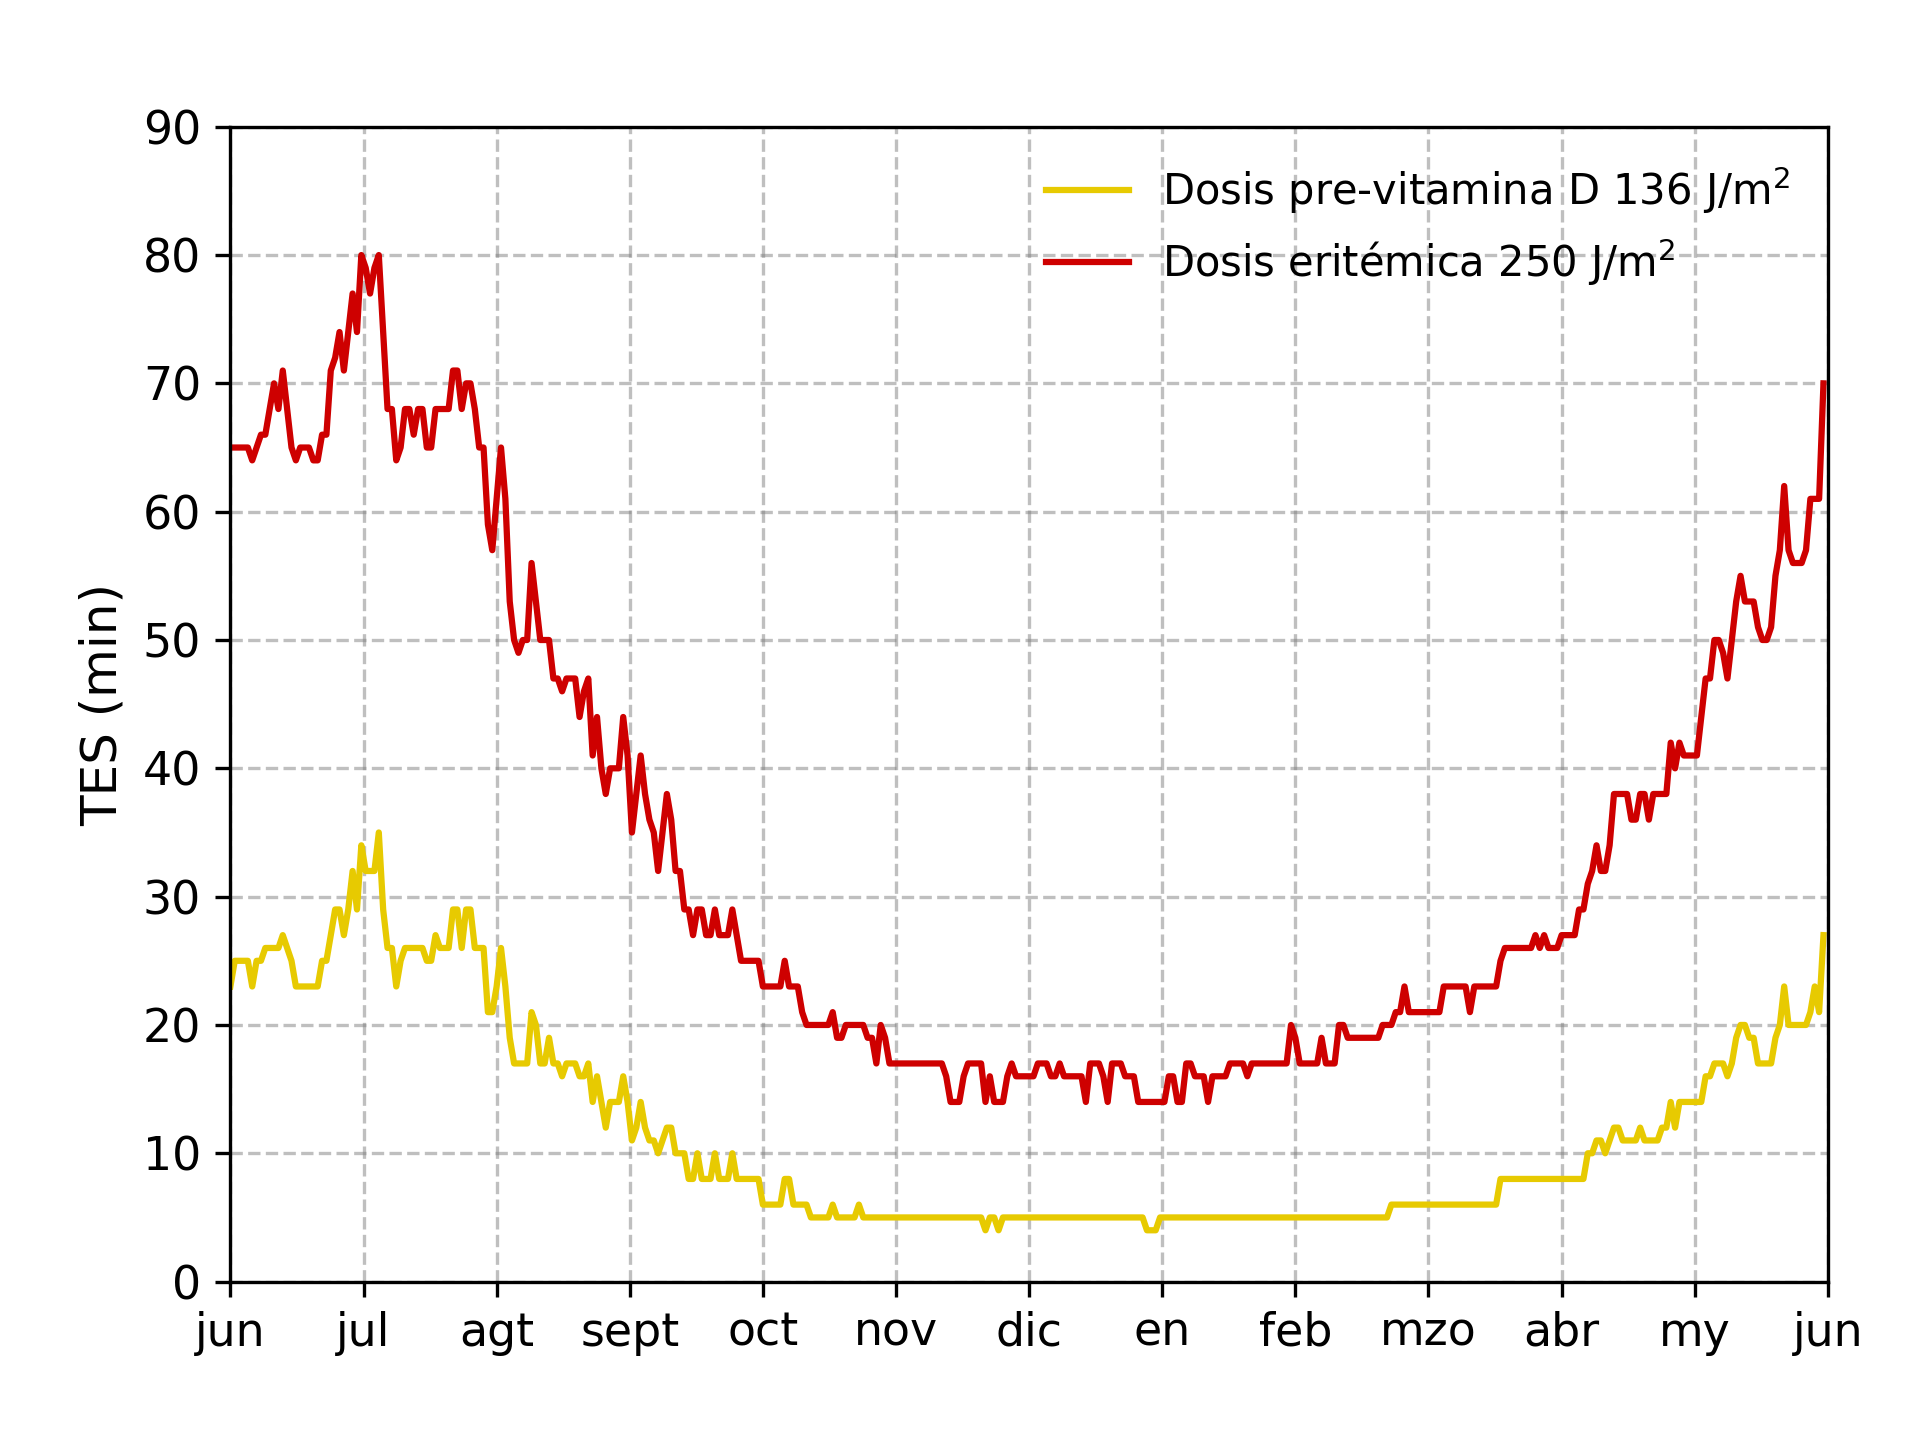
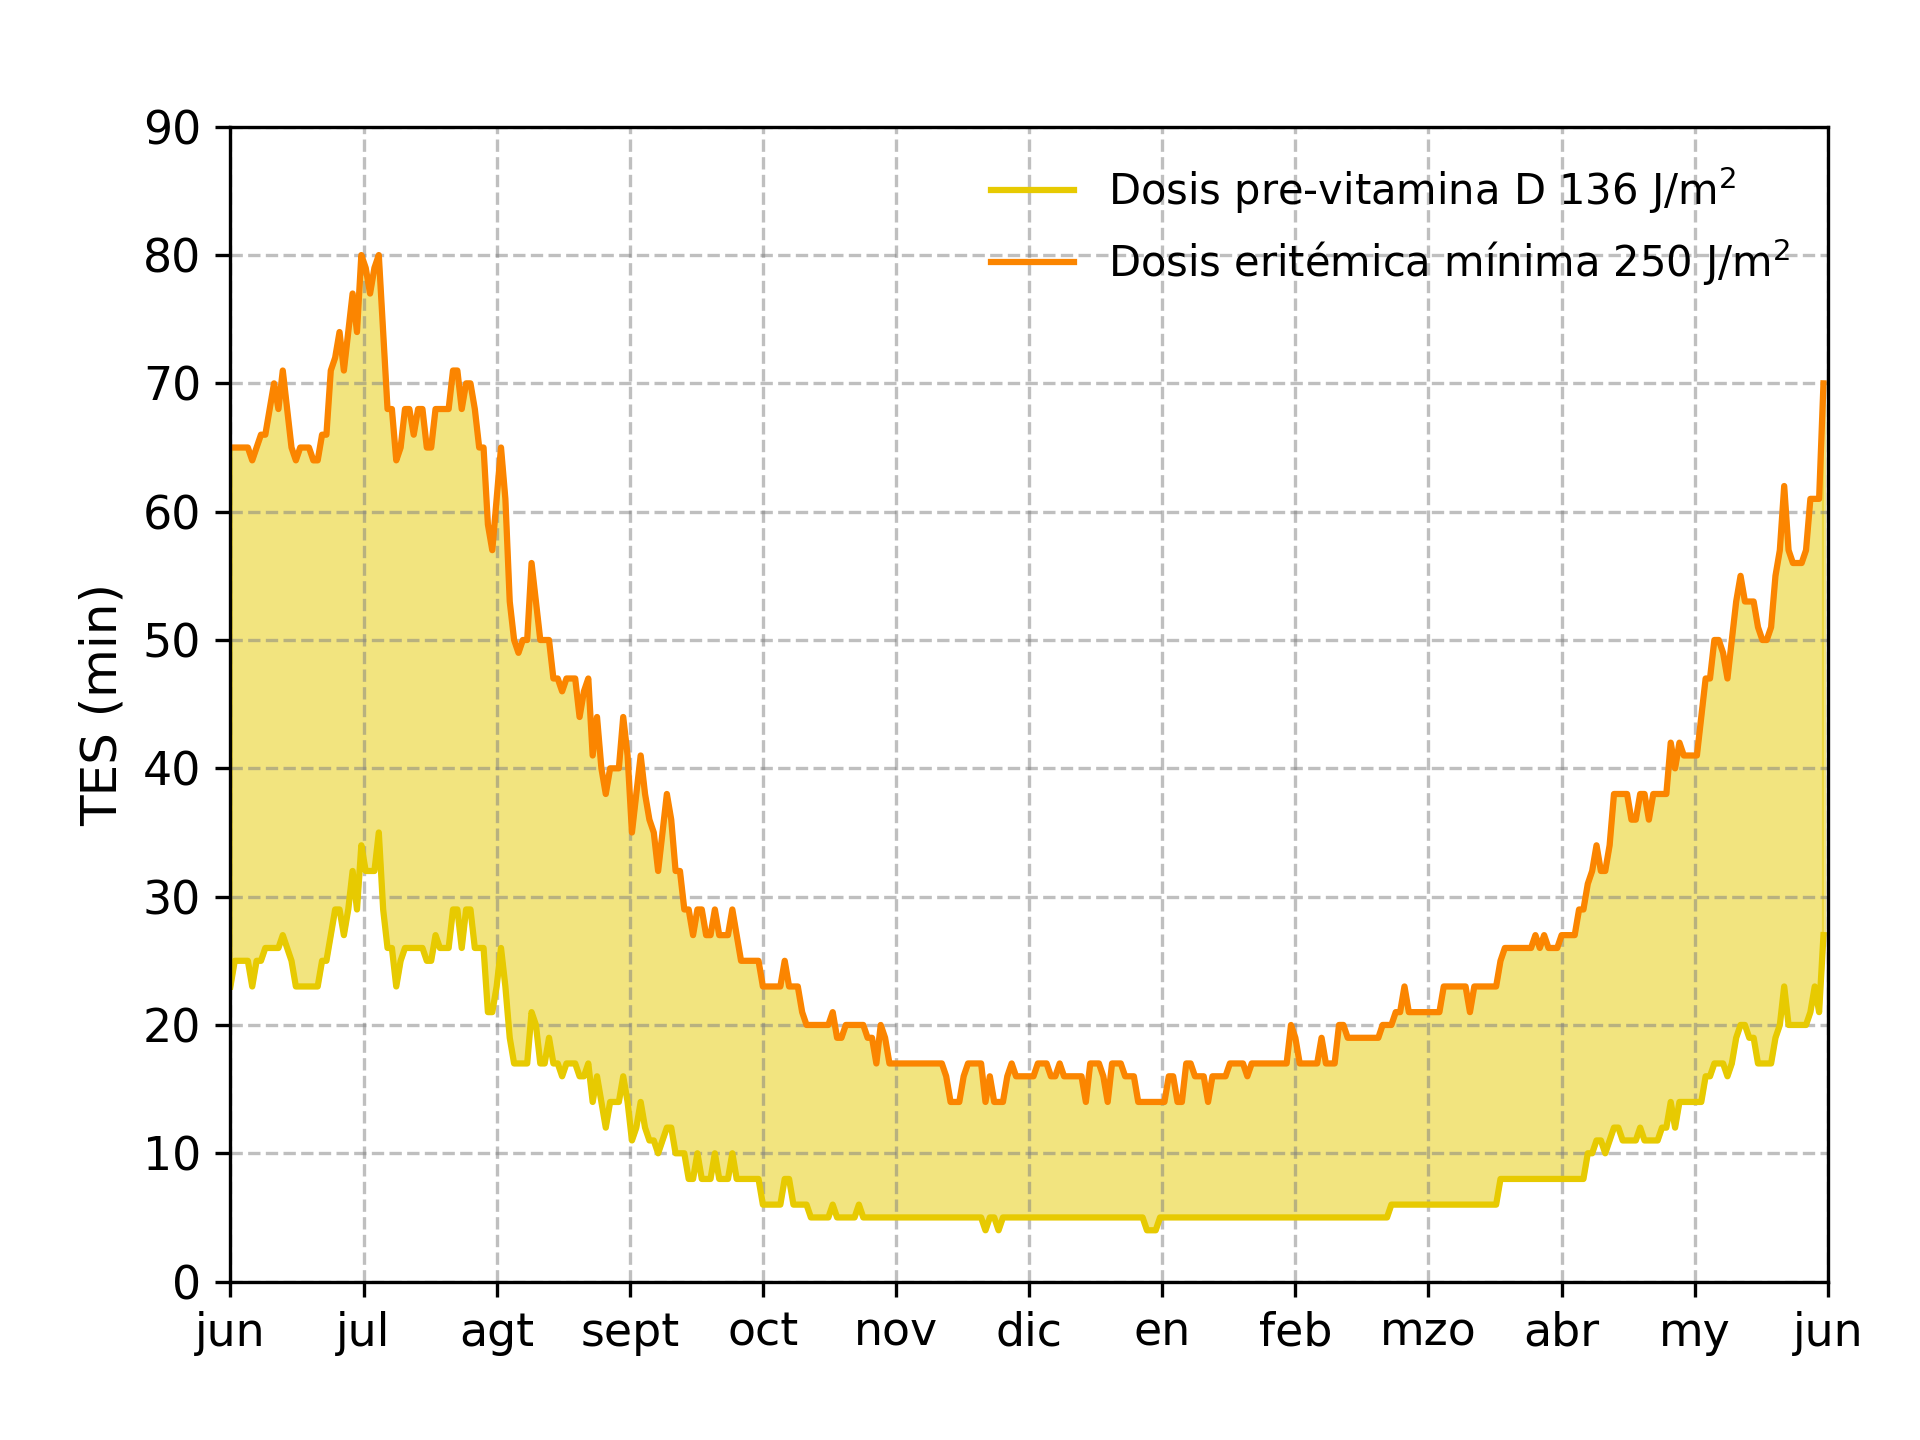
[CHANGE] Pre vitamin graphics

Changed region(s): [[0.0938, 0.1562, 0.9688, 0.8438], [0.5312, 0.125, 0.9375, 0.2188]]

diff --git a/Scripts/pre_vitamin_d_graphics.py b/Scripts/pre_vitamin_d_graphics.py
@@ -1,5 +1,7 @@
 import matplotlib.pyplot as plt
 import numpy as np
+import datetime
+meses=["jun","jul","agt","sept","oct","nov","dic","en","feb","mzo","abr","my","jun"]
 dir_vitamin_d="../Data/Rosario_period/"
 dir_graphics="../Graphics/"
 day_i=datetime.date(2019,6,1)
@@ -7,12 +9,18 @@ day_f=datetime.date(2020,5,31)
 n_days=(day_f-day_i).days+1
 date=np.loadtxt(dir_vitamin_d+"sza_vitamin_max.csv",delimiter=",",skiprows=1,usecols=0,dtype=str)
 data_vitamin=np.loadtxt(dir_vitamin_d+"sza_vitamin_max.csv",delimiter=",",skiprows=1,usecols=2)
-x=np.arange(0,n_days,25);x=np.append(x,n_days)
-plt.scatter(np.arange(n_days),data_vitamin,color="#6a040f")
+data_CIE,data_Herman=np.loadtxt(dir_vitamin_d+"CIE_Herman_data.csv",delimiter=",",skiprows=1,unpack=True)
+x=np.arange(n_days)
+plt.scatter(x,data_vitamin,c="#f72585",label="Modelo TUV",marker=".")
+plt.scatter(x,data_Herman,c="#3a0ca3",label="Herman, 2010",marker=".")
+plt.scatter(x[data_CIE!=0],data_CIE[data_CIE!=0],c="#4cc9f0",label="CIE-2014",marker=".")
+plt.ylabel("Pre-vitamina D (W/m$^2$)",fontsize=12)
 plt.xlim(0,n_days)
 plt.ylim(0,1)
-plt.xticks(x,date[x-1],rotation=60)
-plt.yticks(np.arange(0,1+0.1,0.1))
+plt.xticks(np.linspace(0,n_days,13),meses,fontsize=12)
+plt.yticks(np.arange(0,1+0.1,0.1),fontsize=12)
 plt.grid(ls="--",color="grey",alpha=0.3)
-plt.subplots_adjust(left=0.114,bottom=0.171,right=0.945,top=0.94)
+plt.legend(frameon=False,ncol=3,markerscale=2)
+plt.subplots_adjust(left=0.117,bottom=0.138,right=0.93,top=0.957)
 plt.savefig(dir_graphics+"Previtamin_D.png",dpi=300)
+plt.show()

diff --git a/Scripts/dosis_graphics.py b/Scripts/dosis_graphics.py
@@ -22,9 +22,11 @@ dates,time_vitamin,time_med=np.loadtxt(dir_data+"dosis_time.csv",delimiter=",",u
 days=366
 title="Dosis pre-vitamina D 136 J/m$^2$";color="#E7CA01"
 plt.plot(np.arange(days),time_vitamin,color=color,label=title,lw=1.5)
-lim,div=90,10;title="Dosis eritémica 250 J/m$^2$";color="#CE0000"
+plt.fill_between(np.arange(days),time_vitamin,time_med,color="#E7CA01",alpha=0.5)
+lim,div=90,10;title="Dosis eritémica mínima 250 J/m$^2$";color="#fb8500"
 plt.plot(np.arange(days),time_med,color=color,label=title,lw=1.5)
 plot_data(lim,div,meses,days,title,color)
 plt.subplots_adjust(left=0.12,bottom=0.11,right=0.952,top=0.912,hspace=0.248)
 plt.legend(frameon=False,fontsize=10)
 plt.savefig(dir_graphics+"dosis_vitamin.png",dpi=300)
+plt.show()
